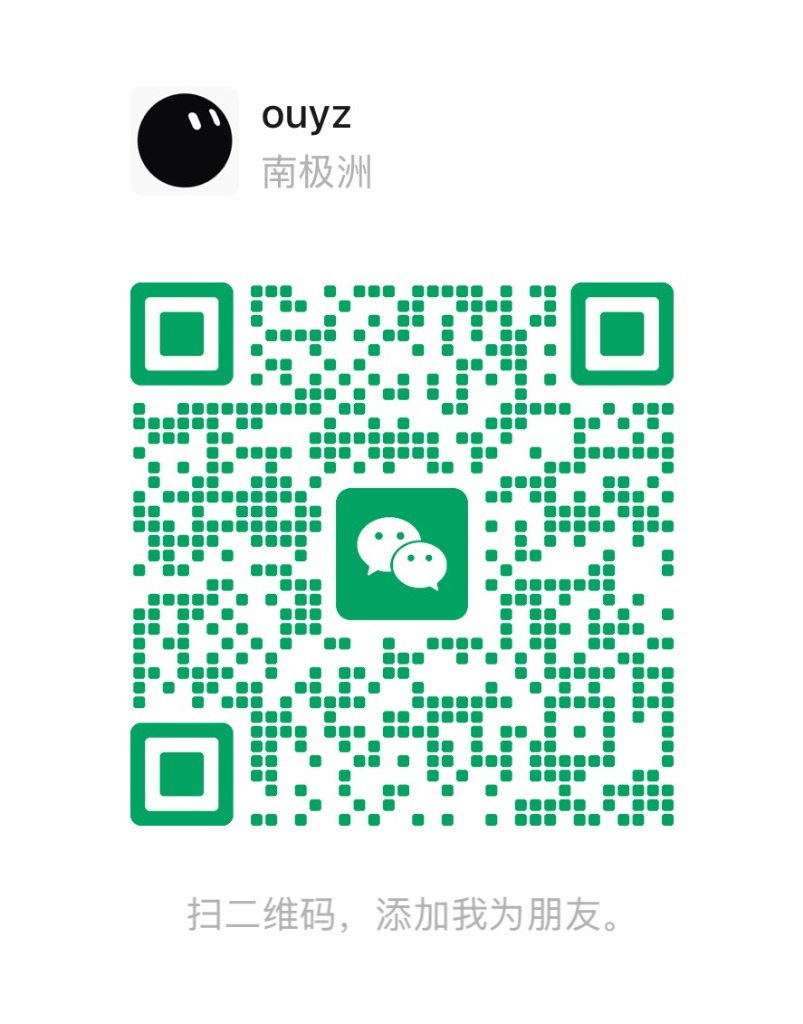
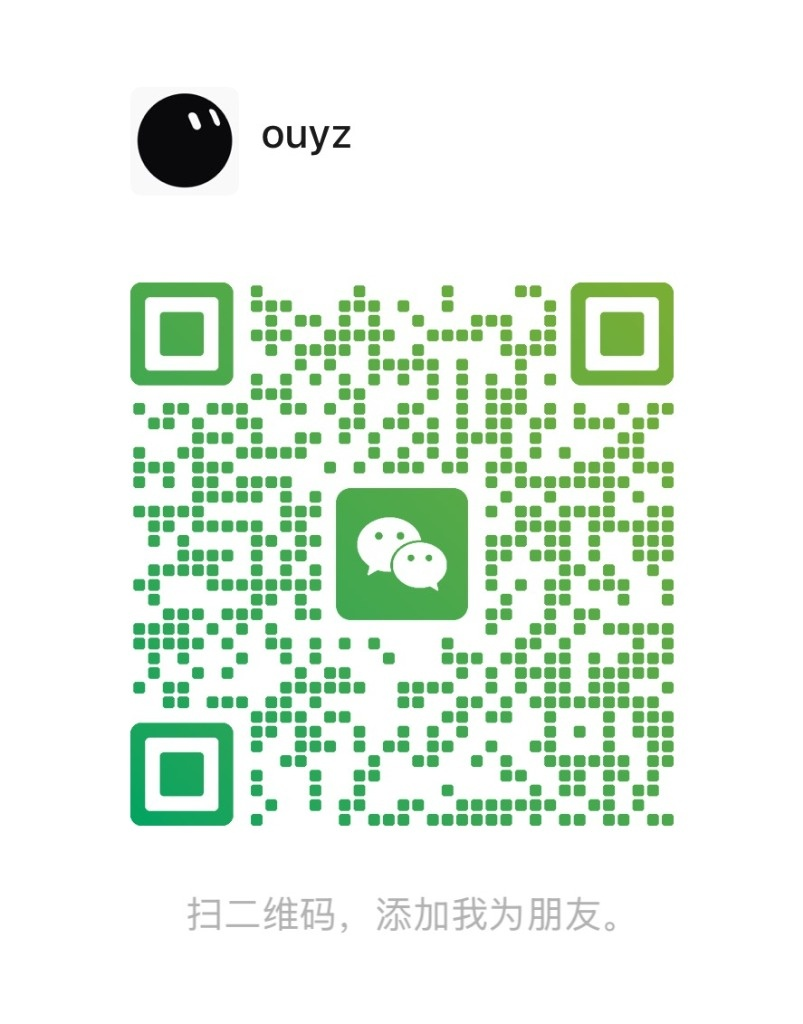
docs(community): 调整社群为 AI 分享交流、校准微信号 ouyzam 并去除名片地域信息

Changed region(s): [[0.1557, 0.25, 0.8406, 0.8125], [0.3113, 0.0938, 0.467, 0.1875]]

diff --git a/apps/desktop/src/pages/SettingsPage.tsx b/apps/desktop/src/pages/SettingsPage.tsx
@@ -591,8 +591,8 @@ function AboutTab({ status, writable }: { status: AppStatus; writable: boolean }
 
           <Opt
             icon={<Icon name="chat" size={16} />}
-            title="技术交流群"
-            desc="加入 Nexus 官方开发者社群，交流 Cursor、Claude Code 与 Mesh 算力网关使用心得"
+            title="AI 探索与技术交流群"
+            desc="围绕 AI 前沿应用、Claude Code、Cursor 实战与模型工程心得，交流分享探索经验"
           >
             <button
               type="button"
@@ -619,7 +619,7 @@ function AboutTab({ status, writable }: { status: AppStatus; writable: boolean }
       {/* 交流群与作者二维码弹窗 */}
       {qrOpen ? (
         <Modal
-          title="扫码加入 Nexus 开发者技术交流群"
+          title="扫码加入 AI 探索与技术交流群"
           onClose={() => setQrOpen(false)}
           compact
           footer={
@@ -629,13 +629,13 @@ function AboutTab({ status, writable }: { status: AppStatus; writable: boolean }
                 className="btn btn-sm btn-soft"
                 onClick={async () => {
                   try {
-                    await navigator.clipboard.writeText("ouyz");
+                    await navigator.clipboard.writeText("ouyzam");
                     setCopied(true);
                     setTimeout(() => setCopied(false), 2000);
                   } catch {}
                 }}
               >
-                {copied ? "已复制微信号 ✓" : "复制作者微信号 (ouyz)"}
+                {copied ? "已复制微信号 ✓" : "复制微信号 (ouyzam)"}
               </button>
               <button type="button" className="btn btn-sm btn-primary" onClick={() => setQrOpen(false)}>
                 知道了
@@ -664,12 +664,16 @@ function AboutTab({ status, writable }: { status: AppStatus; writable: boolean }
                 }}
               />
             </div>
-            <div style={{ fontSize: 13.5, fontWeight: 650, color: "var(--color-ink)", marginBottom: 6 }}>
-              微信扫码 · 添加作者为朋友
+            <div style={{ fontSize: 13.5, fontWeight: 650, color: "var(--color-ink)", marginBottom: 4 }}>
+              微信扫码 · 添加好友进入交流群
+            </div>
+            <div style={{ fontSize: 12, color: "var(--color-ink-2)", marginBottom: 6 }}>
+              微信号：<strong style={{ fontFamily: "var(--font-mono)", color: "var(--color-ink)" }}>ouyzam</strong>
+              <span style={{ color: "var(--color-faint)", marginLeft: 6 }}>(昵称：ouyz)</span>
             </div>
             <div style={{ fontSize: 12, color: "var(--color-muted)", lineHeight: 1.6, maxWidth: 300 }}>
-              备注 <strong style={{ color: "var(--accent)", fontWeight: 600 }}>Nexus</strong> 邀请加入官方微信技术交流群<br />
-              实时反馈 Bug、探讨高阶玩法、获取最新模型通道支持规则
+              备注 <strong style={{ color: "var(--accent)", fontWeight: 600 }}>AI 交流</strong> 或 <strong style={{ color: "var(--accent)", fontWeight: 600 }}>Nexus</strong> 邀请进群<br />
+              分享大模型实操、Cursor / Claude Code 高阶玩法与技术落地心得
             </div>
           </div>
         </Modal>

diff --git a/README.en.md b/README.en.md
@@ -156,14 +156,14 @@ nexus/
 
 ---
 
-## 💬 Community & Feedback
+## 💬 AI Exploration & Community
 
-Join our developer community to share workflows, explore multi-device mesh setups, and report issues:
+Join our community to discuss AI developments, LLM engineering, Cursor & Claude Code workflows, and explore multi-device mesh setups:
 
 <div align="center">
   <img src="docs/images/wechat_qr.jpg" width="220" alt="WeChat Community QR Code" style="border-radius: 12px; box-shadow: 0 4px 20px rgba(0,0,0,0.15);" />
   <p style="margin-top: 10px; font-size: 13.5px; color: #555;">
-    Scan the WeChat QR code above to connect with the author (ID: <strong>ouyz</strong>) with note <strong>Nexus</strong> to join the developer group, or open a discussion on <a href="https://github.com/roviix/nexus/discussions">GitHub Discussions</a>.
+    Scan the WeChat QR code above to connect (WeChat ID: <code>ouyzam</code>, nickname: <code>ouyz</code>) with note <strong>AI</strong> or <strong>Nexus</strong> to join the community group, or join conversations on <a href="https://github.com/roviix/nexus/discussions">GitHub Discussions</a>.
   </p>
 </div>
 

diff --git a/README.md b/README.md
@@ -157,14 +157,14 @@ nexus/
 
 ---
 
-## 💬 社区与交流 (Community & Feedback)
+## 💬 AI 探索与交流 (AI Sharing & Community)
 
-欢迎加入 Nexus 开发者技术社群，获取最新模型通道适配规则、探讨高阶多机玩法与 Bug 快速反馈！
+欢迎加入我们的 AI 探索与技术交流群，围绕大模型应用落地、Claude Code / Cursor 实战心得、AI 前沿分享与工程经验进行自由探讨！
 
 <div align="center">
   <img src="docs/images/wechat_qr.jpg" width="220" alt="WeChat Community QR Code" style="border-radius: 12px; box-shadow: 0 4px 20px rgba(0,0,0,0.15);" />
   <p style="margin-top: 10px; font-size: 13.5px; color: #555;">
-    微信扫码添加作者好友（微信名：<strong>ouyz</strong>），备注 <strong>Nexus</strong> 即可进入官方技术交流群。
+    微信扫码添加好友（微信号：<code>ouyzam</code>，昵称：<code>ouyz</code>），备注 <strong>AI 交流</strong> 或 <strong>Nexus</strong> 即可受邀进群。
   </p>
 </div>
 
